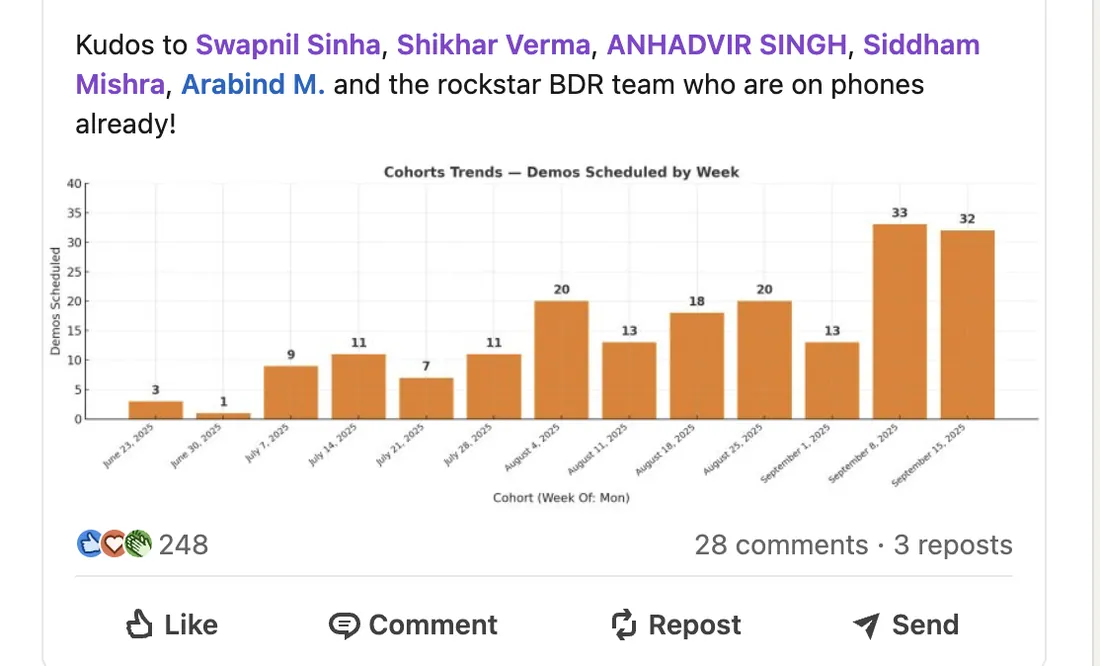
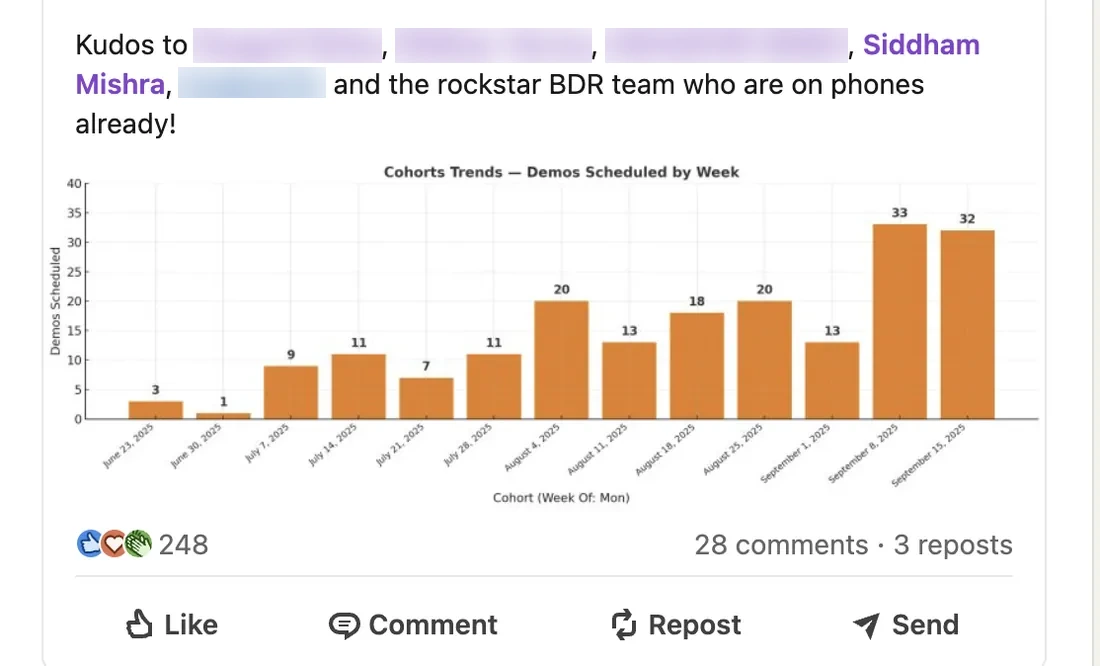
Rewrite copy in a human voice, add more-projects page, blur proof names

Changed region(s): [[0.1545, 0.03, 0.7727, 0.1502]]

diff --git a/src/content/portfolio.js b/src/content/portfolio.js
@@ -17,7 +17,7 @@ export const profile = {
 export const about = {
   paragraphs: [
     "I'm a technical person who fell for marketing - I started out writing code, and go-to-market turned out to be the sweet spot: systems thinking on one side, people on the other.",
-    "I do my best work alongside people sharper than me, in places that would rather bet on me than half-watch me. Off the clock: guitar, martial arts, and an annual 40-question review that decides what I change next.",
+    "I do my best work alongside people sharper than me, in places that would rather bet on me than half-watch me. I learned most of what I know by breaking something, then writing down why so it only happened once.",
   ],
   pull: "Anything I do twice by hand is a bug against my own tooling, not a good week.",
 };
@@ -84,14 +84,13 @@ export const experience = [
           ],
         },
       ],
-      stack: "Clay · HubSpot · Smartlead · HeyReach · React · Next.js · Python · Claude Code · OpenRouter",
     },
   },
   {
     slug: "gushwork",
     company: "Gushwork",
     role: "Growth Engineer",
-    summary: "Built outbound from zero at a $20M-funded company, and handled everything the 15-person SDR floor needed - onboarding, fixes, the lot.",
+    summary: "Built outbound from zero, and handled everything the 15-person SDR floor needed - onboarding, fixes, the lot.",
     points: [
       "Took cold email from zero to 300k sends a month, ran the cold-call system for 15 SDRs and 2 AEs, and kept LinkedIn outreach going alongside both, all on calling data I handled end to end in Clay.",
       "Owned all of our n8n work - fixing what broke, building what was needed, with everything posting into Slack - plus the Python scrapers and enrichment tools (FullEnrich, LeadMagic, Apollo) behind the data.",
@@ -107,12 +106,12 @@ export const experience = [
     },
     detail: {
       intro:
-        "When I joined, the company had raised $20M and outbound was basically starting from scratch. I built the email, calling and data layer that 15 SDRs and 2 AEs worked from, and dealt with everything else the floor ran into - onboarding new hires, fixing whatever broke mid-day.",
+        "When I joined, outbound was basically starting from scratch. I built the email, calling and data layer that 15 SDRs and 2 AEs worked from, and dealt with everything else the floor ran into - onboarding new hires, fixing whatever broke mid-day.",
       blocks: [
         {
           h: "The problem",
           body: [
-            "There wasn't really a system in place. SDRs built their own lists, dialed from whatever they had, and logged outcomes when they remembered to. When the inputs are that inconsistent, nothing you look at later can be trusted.",
+            "The problem wasn't the reps. The system was basic and not optimized for scale - fine for a small team, with no room for the volume the business was heading toward.",
           ],
         },
         {
@@ -121,12 +120,12 @@ export const experience = [
             "I built the outbound engine - email, calling and the data underneath both - plus the n8n and Slack layer that made it usable by the whole floor.",
           ],
           list: [
-            "Calling data handled end to end in Clay: list building, dedupe, waterfall enrichment, validation. I put 200+ hours into Clay, enough that I could rebuild most of it outside the tool.",
-            "Email taken from zero: I wrote the copy, managed deliverability and domain reputation, built the lead lists, and scaled to 10,000 sends a day when the market called for it - about 300k a month at peak. I built the dashboards for all of it too.",
+            "Calling data handled end to end in Clay: list building, dedupe, waterfall enrichment, validation. Enough depth that I could rebuild most of it outside the tool.",
+            "Email taken from zero: I set up the domains and mailboxes for 10,000 sends a day of volume, wrote the copy, managed deliverability and domain reputation, built the lead lists, and scaled when the market called for it - about 300k a month at peak. I built the dashboards for all of it too.",
             "LinkedIn outreach to the same ICPs, running next to email and calls instead of on its own.",
             "The cold-call system: JustCall and SalesDialer connected to Clay and HubSpot, with the next account's info ready before the current call ended.",
             "All of our n8n: fixing bugs, extending workflows, building new ones as needs came in. JavaScript and JSON did the glue work, and the important stuff posted into Slack - demos as they were booked, enrichment handed to SDRs in the channel they were already working in.",
-            "Python for scraping and the one-off automations that come up constantly, plus the supporting tools - FullEnrich, LeadMagic, Apollo, Zapmail, scraping extensions.",
+            "Python for scraping and the one-off automations that come up constantly, plus the supporting tools - FullEnrich, LeadMagic, Apollo, Zapmail, Namecheap, scraping extensions.",
             "I was also part of the other side of growth: the company newsletter and influencer outreach.",
             "Outside the tooling, I onboarded new SDRs, answered whatever technical questions came up, and handled the call and sales ops that kept the reps dialing. One person to ask instead of a ticket queue.",
           ],
@@ -155,7 +154,7 @@ export const experience = [
         {
           h: "What came out",
           body: [
-            "Outbound went from zero to 300k emails a month, and the team booked 100+ demos in a quarter off the calling data I built. Show-up rate went up as volume scaled, because the analytics told us where to push. Fifteen SDRs worked from one system instead of fifteen spreadsheets, and a few product features I suggested from the floor actually shipped.",
+            "The core build was the cold-calling infrastructure - the data layer 15 SDRs and 2 AEs dialed from, wired into JustCall, SalesDialer, Clay and HubSpot - and the team booked 100+ demos in a quarter on it. Email went from zero to 300k sends a month, and the analytics told us where to push: show-up rate and demos booked both climbed as volume scaled. The rest: fifteen SDRs on one system instead of fifteen spreadsheets, and a few product features I suggested from the floor that actually shipped.",
           ],
         },
       ],
@@ -174,7 +173,7 @@ export const experience = [
     proof: null,
     detail: {
       intro:
-        "Agency work: the same acquisition problem, rebuilt for every client. Mostly it taught me to build things I could deploy again, rather than clever one-offs.",
+        "The same acquisition problem, rebuilt for every client - 20 of them running at once at the busiest. Mostly it taught me to build things I could deploy again, rather than clever one-offs.",
       blocks: [
         {
           h: "What I built",
@@ -183,14 +182,14 @@ export const experience = [
           ],
           list: [
             "Dashboards for lead quality, appointments and conversion, so 'is this working?' had an actual answer.",
-            "An agent that puts landing pages together on request, which took out the slowest part of onboarding.",
+            "An agent that builds landing pages on its own - plug and play, so any client's offer goes in and a finished page comes out, no rebuild per client. It took out the slowest part of onboarding.",
             "Automated onboarding: SMS and email sequences for each client account, nothing sent by hand.",
           ],
         },
         {
           h: "How it worked",
           body: [
-            "Every client got the same skeleton - capture, qualify, route, follow up - with the pieces swapped out for their channels. Keeping that shape constant meant the dashboards stayed comparable, and a new client wasn't a new project every time.",
+            "There were up to 20 clients running at once, and every one got the same skeleton - capture, qualify, route, follow up - with the pieces swapped out for their channels. Keeping that shape constant meant the dashboards stayed comparable, and a new client wasn't a new project every time.",
           ],
         },
         {
@@ -206,7 +205,7 @@ export const experience = [
   {
     slug: "holisticon",
     company: "Holisticon",
-    role: "Frontend Developer, contract",
+    role: "Frontend Developer",
     summary: "Frontend work inside a real engineering team.",
     points: [
       "Built frontend components against an existing unit-test suite, and worked through bugs across the product.",
@@ -223,9 +222,22 @@ export const experience = [
           ],
         },
         {
+          h: "What the work was like",
+          body: [],
+          list: [
+            "Building components to match an existing design system - props, states, edge cases, responsive behaviour.",
+            "Wiring the frontend to APIs: fetching, forms, validation, loading and error states.",
+            "Writing and fixing unit tests, then getting the PR through review.",
+            "Working down the bug backlog - layout glitches, state bugs, cross-browser quirks.",
+            "Picking up small features end to end, with a senior reviewing every diff.",
+            "The team rituals: standups, ticket grooming, code reviews.",
+          ],
+        },
+        {
           h: "What it taught me",
           body: [
-            "Tests are a spec written by someone who thought about the problem longer than you have. Working inside them taught me to build for the contract instead of the happy path - the same instinct I use on pipelines now, where the schema is the contract and the happy path is usually a lie.",
+            "How to work inside a team, mostly - and inside a large codebase I hadn't written a line of. Learning other people's patterns, matching the design system, changing code without breaking what surrounds it: that's a skill you only build in a codebase that's bigger than you are.",
+            "The other half was collaboration: picking up tickets, getting reviews, asking questions in the right place, and taking feedback on a diff without taking it personally. That has carried into every role since - most of the work happens with other people, and the code is always bigger than you are.",
           ],
         },
       ],
@@ -250,6 +262,14 @@ export const projects = [
     proof: null,
     detailHref: "/coding-projects",
     links: [],
+  },
+];
+
+export const moreProjects = [
+  {
+    title: "Hormozi Harness",
+    body: "A bird's-eye view of everything Alex Hormozi has posted online, mapped into one interactive tree on a single page. Scan the whole body of work at a glance, then drill into whatever topic matters to you - 7 modules, 55 frameworks and 200 rules.",
+    links: [{ label: "Live", href: "https://hormozi-brain-tree.vercel.app/" }],
   },
 ];
 
@@ -319,7 +339,7 @@ export const codingProjects = [
         {
           h: "The hard part",
           body: [
-            "Meta's webhook contract, not the AI. Signature verification, retries, duplicate deliveries, and per-account rate limits all have to be handled - so every event is idempotent, and a redelivered webhook never sends a second DM. Get that wrong and the product annoys the customer's customers.",
+            "Meta's webhook rules, not the AI. Signature verification, retries, duplicate deliveries, and per-account rate limits all have to be handled - so every event is idempotent, and a redelivered webhook never sends a second DM. Get that wrong and the product annoys the customer's customers.",
           ],
         },
       ],

diff --git a/src/app/more-projects/page.js b/src/app/more-projects/page.js
@@ -1,0 +1,58 @@
+import Link from "next/link";
+import { moreProjects } from "@/content/portfolio";
+
+export const metadata = {
+  title: "More projects",
+  description:
+    "Other things I have built - the Hormozi Harness and whatever comes next.",
+};
+
+export default function MoreProjects() {
+  return (
+    <div className="docpage">
+      <div className="wrap">
+        <section className="doc">
+          <Link className="doc-back" href="/#projects">
+            <span className="arr" aria-hidden="true">
+              ←
+            </span>{" "}
+            All work
+          </Link>
+          <h1>More projects</h1>
+
+          {moreProjects.map((project) => (
+            <div key={project.title}>
+              <h3>
+                <a
+                  className="project-link"
+                  href={project.links[0]?.href}
+                  target="_blank"
+                  rel="noopener"
+                >
+                  {project.title}
+                </a>
+              </h3>
+              <h4>Project summary</h4>
+              <p>{project.body}</p>
+              <div className="prow-foot">
+                <div className="linkrow">
+                  {project.links.map((link) => (
+                    <a
+                      key={link.label}
+                      href={link.href}
+                      target="_blank"
+                      rel="noopener"
+                    >
+                      {link.label} <span className="ext">↗</span>
+                    </a>
+                  ))}
+                </div>
+              </div>
+            </div>
+          ))}
+
+        </section>
+      </div>
+    </div>
+  );
+}

diff --git a/src/app/coding-projects/page.js b/src/app/coding-projects/page.js
@@ -1,5 +1,5 @@
 import Link from "next/link";
-import { codingProjects, profile } from "@/content/portfolio";
+import { codingProjects } from "@/content/portfolio";
 import ProofButton from "@/components/ProofButton";
 
 export const metadata = {
@@ -19,7 +19,6 @@ export default function CodingProjects() {
             </span>{" "}
             All work
           </Link>
-          <p className="eyebrow">Projects</p>
           <h1>Coding projects</h1>
           <p className="sub">
             Two products I built end to end - architecture, payments, the
@@ -65,14 +64,10 @@ export default function CodingProjects() {
                   ))}
                 </div>
               ))}
-              <p className="stackline">{project.detail.stack}</p>
               </div>
             );
           })}
 
-          <p className="src">
-            {profile.email} · {profile.location}
-          </p>
         </section>
       </div>
     </div>

diff --git a/src/app/globals.css b/src/app/globals.css
@@ -699,10 +699,28 @@ h2 {
   text-decoration: none;
 }
 
+.more-cta {
+  margin-top: 22px;
+  display: none;
+}
+
 .more-link:hover {
   text-decoration: underline;
   text-underline-offset: 4px;
   text-decoration-thickness: 1.5px;
+}
+
+.doc a.more-link {
+  color: var(--accent);
+  text-decoration: none;
+  text-decoration-color: currentColor;
+}
+
+.doc a.more-link:hover {
+  text-decoration: underline;
+  text-underline-offset: 4px;
+  text-decoration-thickness: 1.5px;
+  text-decoration-color: currentColor;
 }
 
 .doc .doc-h2 {
@@ -999,7 +1017,13 @@ h2 {
 
 .docpage {
   background: #fff;
+  min-height: 100vh;
+  min-height: 100dvh;
   padding: clamp(40px, 6vw, 80px) 0 clamp(60px, 8vw, 110px);
+}
+
+body:has(.docpage) {
+  background: #fff;
 }
 
 .doc-back {

diff --git a/src/app/abm-workflow/page.js b/src/app/abm-workflow/page.js
@@ -18,7 +18,6 @@ export default function AbmWorkflow() {
           </span>{" "}
           All work
         </Link>
-        <p className="eyebrow">Systems</p>
         <h1>ABM workflow</h1>
         <p className="sub">
           The system on paper before the system in production - from TAM
@@ -422,10 +421,6 @@ export default function AbmWorkflow() {
             possible.
           </li>
         </ol>
-
-        <p className="src">
-          My working notes on the 2026 ABM playbook - kept here as I run it.
-        </p>
         </section>
       </div>
     </div>

diff --git a/src/app/more/page.js b/src/app/more/page.js
@@ -17,7 +17,6 @@ export default function More() {
             </span>{" "}
             Back
           </Link>
-          <p className="eyebrow">More</p>
           <h1>More about me</h1>
           <p className="sub">{more.intro}</p>
 
@@ -36,11 +35,6 @@ export default function More() {
               ) : null}
             </div>
           ))}
-
-          <p className="src">
-            Last updated September 2026 ·{" "}
-            <a href={`mailto:${profile.email}`}>{profile.email}</a>
-          </p>
         </section>
       </div>
     </div>

diff --git a/src/app/work/[slug]/page.js b/src/app/work/[slug]/page.js
@@ -34,7 +34,6 @@ export default async function WorkDetail({ params }) {
             </span>{" "}
             All work
           </Link>
-          <p className="eyebrow">{job.company}</p>
           <h1>{job.role}</h1>
           <p className="sub">{job.detail.intro}</p>
 
@@ -73,8 +72,6 @@ export default async function WorkDetail({ params }) {
               ) : null}
             </div>
           ))}
-
-          <p className="src">{job.detail.stack}</p>
         </section>
       </div>
     </div>

diff --git a/src/components/Projects.jsx b/src/components/Projects.jsx
@@ -25,6 +25,13 @@ export default function Projects() {
           </Reveal>
         ))}
       </div>
+      <Reveal>
+        <p className="more-cta">
+          <Link className="more-link" href="/more-projects">
+            see more projects
+          </Link>
+        </p>
+      </Reveal>
     </section>
   );
 }

diff --git a/AGENTS.md b/AGENTS.md
@@ -7,3 +7,8 @@ This version has breaking changes — APIs, conventions, and file structure may 
 This block is written and re-added by `next dev` — verify at `node_modules/next/dist/server/lib/generate-agent-files.js`. Removing it from a diff only re-creates the uncommitted change; committing it with your work keeps the tree clean.
 
 <!-- END:nextjs-agent-rules -->
+
+## Content rules
+
+- Never write closing credit/note lines at the end of pages (e.g., "My working notes on the 2026 ABM playbook - kept here as I run it.", "Last updated September 2026 · email", source-credit notes, or meta commentary). Pages end with content, not notes about the content.
+- Use small dashes (hyphen-minus, U+002D) only. Never em dashes or en dashes.
